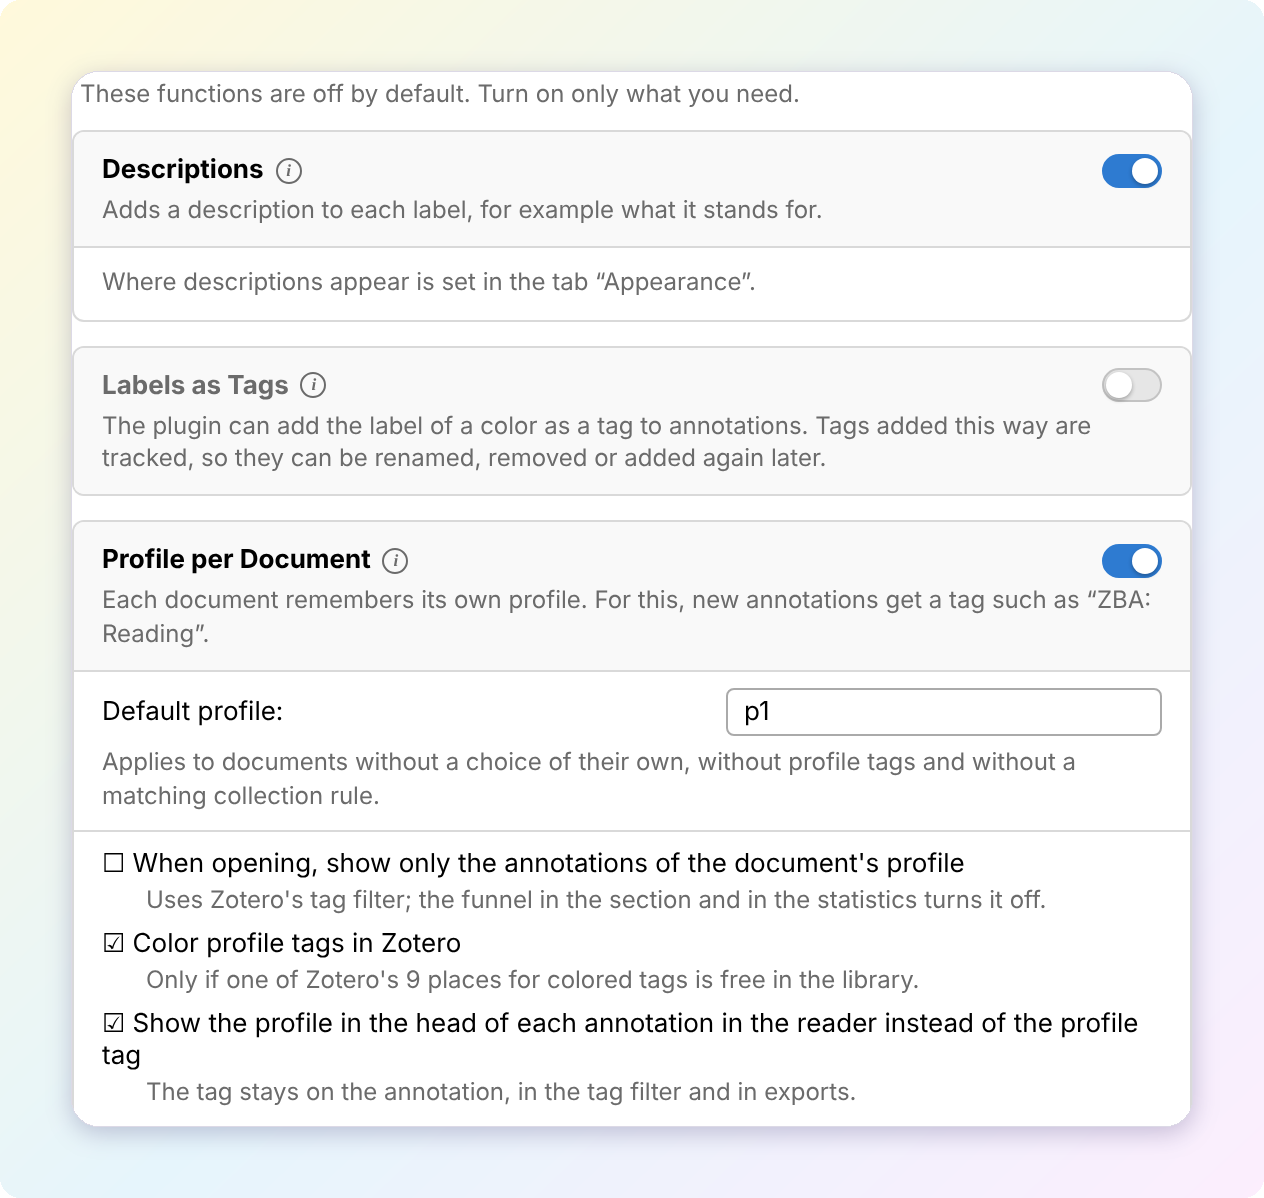
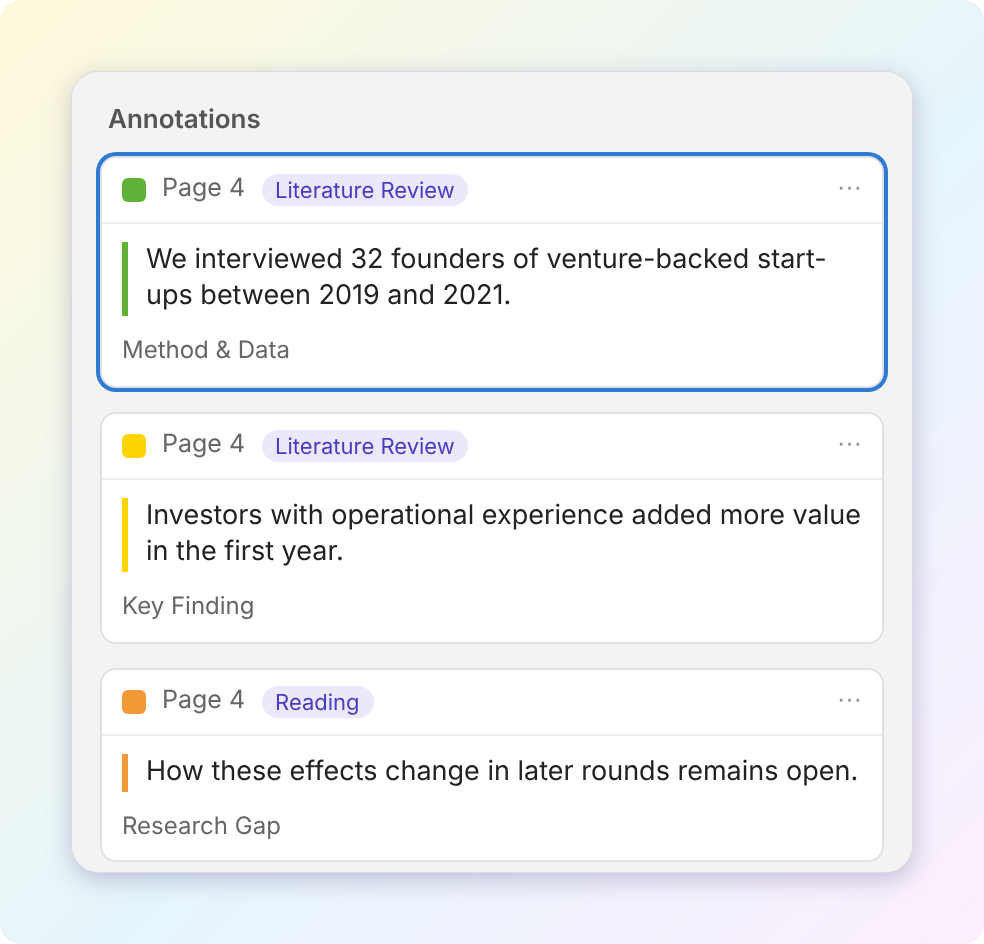
README: feature blocks as tables, drag and drop and settings blocks, At a glance section, plain statement on AI development
Claude-Session: https://claude.ai/code/session_01PkH8egytANsrcUK8ArmkVh

Changed region(s): [[0.0305, 0.0614, 0.9451, 0.9523]]

diff --git a/README.md b/README.md
@@ -22,7 +22,9 @@
 
 </div>
 
-**At a glance**
+<a name="at-a-glance"></a>
+
+## <img src="docs/images/icons/glance.svg" width="26" height="26" align="top" alt="">&nbsp;At a glance
 
 - 🏷 **A label for every annotation color**, right where you pick a color in Zotero's reader.
 - 🎨 **As many colors as you need**, in your order, saved as **profiles** you can switch.
@@ -34,134 +36,201 @@
 > [!NOTE]
 > **Beta.** Better Annotations works in daily use, but has not yet been tested widely. Please back up your Zotero data directory before you try it and [report problems](https://github.com/CorsiQa/zotero-better-annotations/issues/new?template=bug_report.yml).
 
-Zotero offers eight annotation colors without names, so it is easy to forget which color stands for what. Better Annotations gives every color a label that appears wherever you choose a color, lets you add as many colors as you need and keeps several color sets as profiles. Most people use it to mark findings, methods or open questions while reading. Turned on in the settings, the advanced functions go further: a label can stand for any category, including a code, a document can keep its own scheme, and the export lists every annotation with its label.
+Zotero offers eight annotation colors without names, so it is easy to forget which color stands for what. Better Annotations gives every color a label that appears wherever you choose a color, lets you add as many colors as you need and keeps several color sets as profiles. Use it to mark findings, methods or open questions while you read. With the advanced functions turned on, it goes further: a label can stand for any category, including a code, a document can keep its own scheme, and the export lists every annotation with its label.
 
 <a name="features"></a>
 
 ## <img src="docs/images/icons/features.svg" width="26" height="26" align="top" alt="">&nbsp;Features
 
-<img src="docs/images/feature-labels.png" align="right" width="46%" alt="Context menu of an annotation in Zotero's PDF reader with labeled colors such as Key Point, Quote to Cite and Definition, and the entry Customize Annotations">
+<table>
+<tr>
+<td width="54%" valign="middle">
 
-### 🏷 Labels where you choose a color
+## 🏷 Labels where you choose a color
 
-The label of a color appears wherever Zotero lets you pick one, so you see what a color means while you read.
+The label of a color appears wherever Zotero lets you pick one, so you always see what a color means.
 
-🖱 **Context menu and toolbar.** Right-click an annotation or open the color menu of the toolbar: every color shows its label. Colors beyond the first eight move into a submenu.
+> 🖱 **Context menu and toolbar.** Every color shows its label. Colors beyond the first eight move into a submenu.
+>
+> ✨ **Selection popup.** Hover a color to see its label and its description.
+>
+> 🔎 **Sidebar filter.** The color filter of the annotation sidebar names the colors as well.
 
-✨ **Selection popup.** After selecting text, hover a color to see its label and its description.
+</td>
+<td width="46%" valign="middle"><img src="docs/images/feature-labels.png" width="100%" alt="Context menu of an annotation in Zotero's PDF reader with labeled colors such as Key Point, Quote to Cite and Definition"></td>
+</tr>
+</table>
 
-🔎 **Sidebar filter.** The color filter of the annotation sidebar names the colors as well.
+<table>
+<tr>
+<td width="46%" valign="middle"><img src="docs/images/feature-itempane.png" width="100%" alt="Section Better Annotations in Zotero's item pane: profile, labels with descriptions and the number of annotations per label"></td>
+<td width="54%" valign="middle">
 
-🛡 **Robust next to other plugins.** If another plugin for annotation colors is active, the settings point it out once and offer to take over its labels.
+## 📌 A section in the item pane
 
-<br clear="all">
+Next to the reader, a section lists the labels of the document's profile with the number of annotations.
 
-<img src="docs/images/feature-profiles.png" align="left" width="46%" alt="Settings of Better Annotations: a profile with a list of labeled colors and the number of annotations per color">
+> 👆 **Click to annotate.** A click on a label starts highlighting in its color, or colors the selected text once.
+>
+> 🔢 **Counts.** See how often each label is used in the document, or in all files of an item in the library.
+>
+> 📝 **Descriptions at hand.** What a label stands for appears right below it.
+>
+> 🪟 **Separate window.** The same list in its own window, for example on a second screen.
 
-### 🎨 Colors and profiles
+</td>
+</tr>
+</table>
 
-Add, rename, hide and reorder colors, and keep different sets for different work.
+<table>
+<tr>
+<td width="54%" valign="middle">
 
-➕ **Any number of colors.** Pick colors with the color picker, from palettes or by hex code, and drag them into your order.
+## 🖐 Annotate by drag and drop
 
-🗂 **Profiles.** Keep one set for reading and another one for a review. Switch in the reader, in the item pane or in the settings. Your annotations keep their colors; only the labels change.
+Drag a label from the item pane onto a passage. Sorting passages into categories becomes as quick as sorting cards, for example when you code text in a qualitative content analysis.
 
-📚 **Template library.** Start from schemes such as Literature Review (TCCM, ADO), Toulmin's argument analysis, the paradigm model of Grounded Theory, PICO or a reading workflow.
+> 🎯 **Onto highlights.** Drop a color on a highlight in the PDF to give it this color.
+>
+> ✍ **Onto selected text.** Drop it on selected text to highlight it.
+>
+> 🗂 **Onto the sidebar.** Drop it on an annotation in the sidebar; if several are selected, all of them change.
+>
+> ↩ **Undo as usual.** Ctrl+Z reverts the change in the reader.
 
-🔁 **Share.** Export a profile as a file and import the profiles of colleagues.
+</td>
+<td width="46%" valign="middle"><img src="docs/images/feature-drag.png" width="100%" alt="A label is dragged from the item pane onto a passage in the PDF, which is outlined in the label's color"></td>
+</tr>
+</table>
 
-<br clear="all">
+<table>
+<tr>
+<td width="46%" valign="middle"><img src="docs/images/feature-toolbar.png" width="100%" alt="Profile button in the reader toolbar with the statistics: the number of annotations per label with colored bars"></td>
+<td width="54%" valign="middle">
 
-<img src="docs/images/feature-itempane.png" align="right" width="46%" alt="Section Better Annotations in Zotero's item pane: profile, labels with descriptions and the number of annotations per label">
-
-### 📌 Item pane section and separate window
-
-A section next to the reader lists the labels of the document's profile with the number of annotations.
-
-👆 **Click to annotate.** A click on a label starts highlighting in its color. With text or annotations selected, the click colors them once.
-
-🖐 **Drag and drop.** Drag a color onto an annotation in the sidebar, onto a highlight in the PDF or onto selected text.
-
-🪟 **Separate window.** Open the list in its own window, for example on a second screen. It follows the active reader tab.
-
-📝 **Descriptions at hand.** Show what each label stands for right below it.
-
-<br clear="all">
-
-<img src="docs/images/feature-toolbar.png" align="left" width="46%" alt="Profile button in the reader toolbar with the statistics: the number of annotations per label with colored bars">
-
-### 📊 Reader toolbar and statistics
+## 📊 Reader toolbar and statistics
 
 One button in the reader toolbar shows the profile of the document and how many annotations it has.
 
-🔀 **Switch profiles.** A click opens the profile menu.
+> 🔀 **Switch profiles.** A click opens the profile menu.
+>
+> 📈 **Statistics.** Hover the button to see the annotations per label, grouped by profile.
+>
+> 🎯 **One profile at a time.** A filter shows only the annotations of the document's profile, in the list and in the document.
+>
+> ↔ **Tools in the middle.** Zotero's tools stay above the middle of the document, however long the profile name is.
 
-📈 **Statistics.** Hover the button to see the annotations per label, grouped by profile.
+</td>
+</tr>
+</table>
 
-🎯 **One profile at a time.** The filter shows only the annotations of the document's profile, in the list and in the document.
+<table>
+<tr>
+<td width="54%" valign="middle">
 
-↔ **Tools in the middle.** Zotero's tools stay above the middle of the document, however long the profile name is.
+## 🗂 Profiles and templates
 
-<br clear="all">
+Keep different color schemes for different kinds of work, and start from proven ones.
 
-<img src="docs/images/feature-advanced.png" align="right" width="46%" alt="Tab Advanced in the settings with switches for descriptions, labels as tags and profile per document">
+> 🗂 **Profiles.** One scheme for reading, another one for a review. Switching changes the labels, never your annotations.
+>
+> 📚 **Template library.** Literature Review (TCCM, ADO), Toulmin's argument analysis, the paradigm model of Grounded Theory, PICO and a reading workflow.
+>
+> 🔁 **Share.** Export a profile as a file and import the profiles of colleagues.
+>
+> 🧩 **Coming from another plugin?** Better Annotations offers to take over the labels of other color plugins as a profile.
 
-### 🧪 Advanced functions for coding and reviews
+</td>
+<td width="46%" valign="middle"><img src="docs/images/feature-profiles.png" width="100%" alt="Template library with ready-made profiles such as Evidence Extraction: PICO and Reading Workflow"></td>
+</tr>
+</table>
 
-Three functions are off by default. They write to your library or need a short explanation, so you turn them on under **Advanced** when you need them.
+<table>
+<tr>
+<td width="46%" valign="middle"><img src="docs/images/feature-advanced.png" width="100%" alt="Annotations in the reader's sidebar: each shows its profile, such as Literature Review or Reading, in its head and its label as a tag"></td>
+<td width="54%" valign="middle">
 
-📝 **Descriptions.** Define what each label means and when to use it, like the definition of a code. Descriptions appear in tooltips, the item pane, the statistics and the export.
+## 🧪 Advanced functions for coding and reviews
 
-🏷 **Labels as tags.** Annotations receive the label of their color as a tag, so you can search and filter them across your library. The plugin keeps track of its tags and can rename or remove them.
+Three functions turn your labels into a coding scheme. They are off by default; you turn them on under **Advanced**.
 
-📄 **Profile per document.** Every document keeps its own profile, chosen by hand, by its annotations or by rules for collections. A profile tag records which scheme an annotation belongs to, so several schemes can live in one document.
+> 📝 **Descriptions.** Define what each label means and when to use it, like the definition of a code.
+>
+> 🏷 **Labels as tags.** Annotations receive the label of their color as a tag, so coded passages can be searched and filtered across the library.
+>
+> 📄 **Profile per document.** Every document keeps its own scheme. Each annotation shows its profile, so several schemes can live in one document.
+>
+> 📁 **Rules for collections.** Give all documents of a collection the same scheme.
 
-<br clear="all">
+</td>
+</tr>
+</table>
 
-<img src="docs/images/feature-export.png" align="left" width="46%" alt="Exported Excel workbook with one row per annotation, colored cells, labels, extracts, images and citations">
+<table>
+<tr>
+<td width="54%" valign="middle">
 
-### 📤 Export
+## 🎛 Make it yours
+
+Nearly everything can be adjusted, so the plugin fits the way you work.
+
+> 🎨 **Colors.** Any number of colors, picked freely, from palettes or by hex code, in your order. Hide what you do not need.
+>
+> 🧭 **Menus and popup.** How many colors appear directly, how the selection popup is arranged and how fast labels appear.
+>
+> 🧱 **Where things appear.** Toolbar button, item pane section, separate window, descriptions: show what you use.
+>
+> 🌍 **Language.** 11 languages, following Zotero or chosen in the settings.
+
+</td>
+<td width="46%" valign="middle"><img src="docs/images/feature-settings.png" width="100%" alt="Settings of Better Annotations: profile card and the list of colors with labels and descriptions"></td>
+</tr>
+</table>
+
+<table>
+<tr>
+<td width="46%" valign="middle"><img src="docs/images/feature-export.png" width="100%" alt="Exported Excel workbook with one row per annotation, colored cells, labels and extracts"></td>
+<td width="54%" valign="middle">
+
+## 📤 Export
 
 Export the annotations of a document, a collection or a library with one row per annotation.
 
-📗 **Excel.** Colored cells, images, grouped columns that fold, a sheet with all labels and their descriptions, and links that open each annotation in Zotero.
+> 📗 **Excel.** Colored cells, images, grouped columns, a sheet with all labels and their descriptions, and links back to Zotero.
+>
+> 📄 **CSV.** For R, Python, SPSS and other software, in UTF-8.
+>
+> 🌐 **HTML.** A readable report grouped by source or by label, to print or save as PDF.
+>
+> 🧭 **Your selection.** Choose the area, the order, the profile and the columns.
 
-📄 **CSV.** For R, Python, SPSS and other software, in UTF-8.
+</td>
+</tr>
+</table>
 
-🌐 **HTML.** A readable report grouped by source or by label, to print or save as PDF.
-
-🧭 **Your selection.** Choose the area, the order, the profile and the columns.
-
-<br clear="all">
-
-### ✨ Everything else, in one line each
+## ✨ More functions
 
 <table>
 <tr><td>🎨 <b>Recolor and merge</b></td><td>Change the color of existing annotations in a document, the selected items, a collection or a whole library.</td></tr>
 <tr><td>💾 <b>Backups</b></td><td>The colors of all annotations are saved when the plugin starts for the first time.</td></tr>
 <tr><td>↩ <b>History</b></td><td>Every change the plugin makes to annotations is listed and can be undone.</td></tr>
 <tr><td>🧳 <b>Full backup</b></td><td>Moves all profiles, settings and the history to another computer.</td></tr>
-<tr><td>🎛 <b>Appearance</b></td><td>Choose where labels, descriptions and buttons appear, and how the selection popup is arranged.</td></tr>
-<tr><td>🌍 <b>11 languages</b></td><td>English, Deutsch, Español, Français, Italiano, 日本語, Polski, Português, Русский, 简体中文, 繁體中文.</td></tr>
 <tr><td>🔄 <b>Updates</b></td><td>Zotero installs new versions automatically; the settings show whether you have the latest one.</td></tr>
 </table>
 
 <a name="installation"></a>
 
-## <img src="docs/images/icons/install.svg" width="26" height="26" align="top" alt="">&nbsp;Installation
+## <img src="docs/images/icons/install.svg" width="26" height="26" align="top" alt="">&nbsp;Installation and quick start
+
+### Install
 
 1. Download `better-annotations-<version>.xpi` from the [latest release](https://github.com/CorsiQa/zotero-better-annotations/releases/latest) (in Firefox: right-click → Save Link As).
 2. In Zotero, open **Tools → Plugins**.
 3. Drag the file into the window, or click the gear icon and choose **Install Plugin From File…**.
 
-Zotero installs future versions automatically.
+Zotero installs future versions automatically. The plugin never changes existing annotations without asking; they keep their colors after installation.
 
-> [!NOTE]
-> The plugin never changes existing annotations without asking. Your annotations keep their colors after installation.
-
-<a name="quick-start"></a>
-
-## <img src="docs/images/icons/quickstart.svg" width="26" height="26" align="top" alt="">&nbsp;Quick start
+### First steps
 
 1. Open **Edit → Settings** (macOS: **Zotero → Settings**) and choose **Better Annotations**.
 2. Type a label next to each color, or click **Browse Templates** and start from a template.
@@ -300,7 +369,7 @@ Some plugins change the same menus or the selection popup:
 
 ## <img src="docs/images/icons/development.svg" width="26" height="26" align="top" alt="">&nbsp;Development
 
-To be open about it: Better Annotations is largely vibe-coded. The maintainer describes what the plugin should do, decides on the design and tests every version in Zotero; the code itself is written by the AI assistant Claude (Anthropic). The translations were made the same way.
+Better Annotations is developed with AI. The code and the translations are written by Claude (Anthropic). The maintainer sets the goals, decides on functions and design and tests every version in Zotero.
 
 The project follows a UX-first approach: every function should feel like part of Zotero, follow Zotero's conventions and stay accessible by keyboard. At the same time, the plugin aims at a wide range of functions and a high degree of customization, with advanced functions that stay out of the way until you turn them on. All functions are tested as thoroughly as possible, with automated tests in a simulated Zotero and by hand in Zotero itself, and refined over many rounds of feedback.
 
